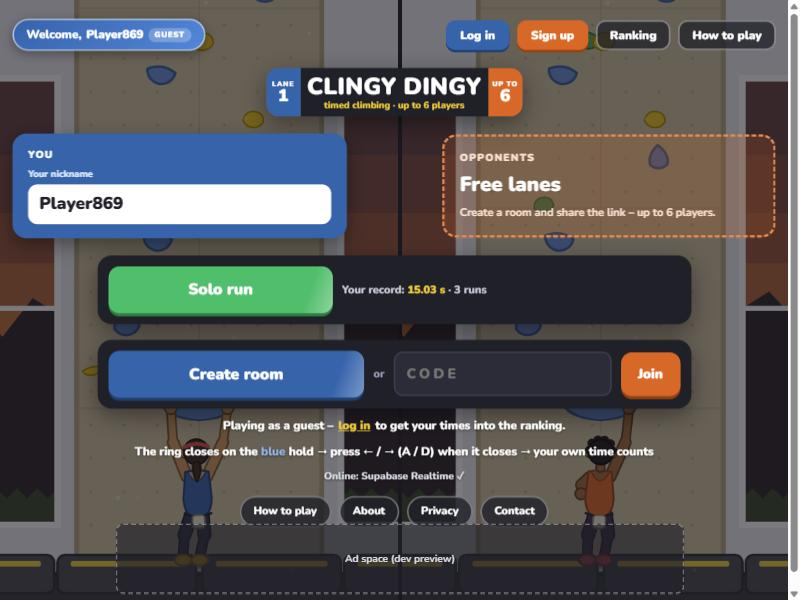
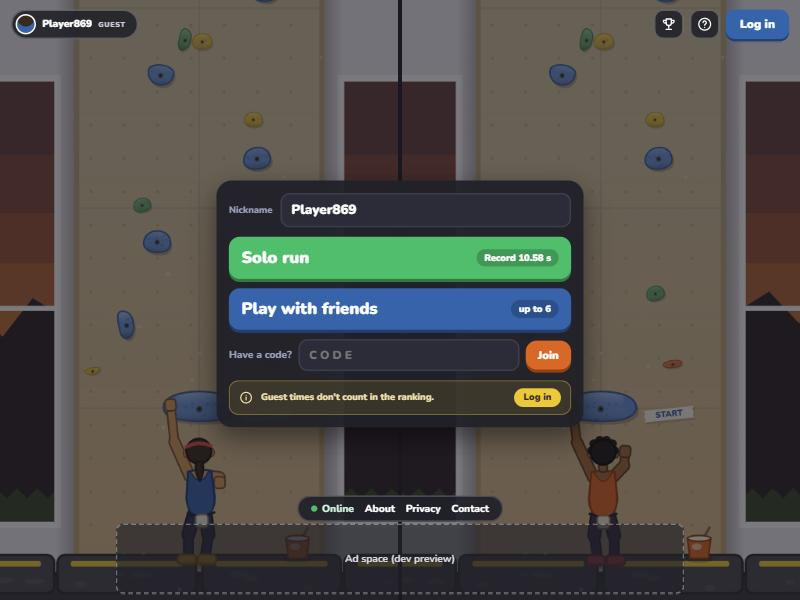
README: screenshots of the new design

diff --git a/README.md b/README.md
@@ -10,17 +10,21 @@
 
 Everything you see is drawn in code on a Canvas 2D (no sprites or image files): the wall, holds, climber, windows, stars and moon. The hall slowly turns from sunset into a starry night as you climb.
 
-| Menu | Start | Climbing at sunset |
+| Menu | Waiting room | Countdown |
 |---|---|---|
-| ![Menu](docs/screenshots/01-menu.jpg) | ![Start](docs/screenshots/02-start.jpg) | ![Climbing at sunset](docs/screenshots/03-climb-sunset.jpg) |
+| ![Menu](docs/screenshots/01-menu.jpg) | ![Waiting room](docs/screenshots/02-room.jpg) | ![Countdown](docs/screenshots/03-countdown.jpg) |
 
-| First stars | Dusk | Night and moon |
+| Sunset | First stars | Night |
 |---|---|---|
-| ![First stars](docs/screenshots/04-climb-first-stars.jpg) | ![Dusk](docs/screenshots/05-climb-dusk.jpg) | ![Night with a moon](docs/screenshots/06-climb-night-moon.jpg) |
+| ![Climbing at sunset](docs/screenshots/04-climb-sunset.jpg) | ![First stars](docs/screenshots/05-climb-first-stars.jpg) | ![Night and a moon](docs/screenshots/06-climb-night.jpg) |
 
-| Summit | Results | Phone |
+| Summit | Solo results | Phone |
 |---|---|---|
-| ![Summit](docs/screenshots/07-summit-flag.jpg) | ![Results](docs/screenshots/08-results.jpg) | <img src="docs/screenshots/09-phone.jpg" alt="Phone layout" width="160"> |
+| ![Summit](docs/screenshots/07-summit.jpg) | ![Solo results](docs/screenshots/08-solo-results.jpg) | <img src="docs/screenshots/11-phone.jpg" alt="Phone layout" width="160"> |
+
+| Duel: live race | Duel: results |
+|---|---|
+| ![Duel race](docs/screenshots/09-duel-race.jpg) | ![Duel results](docs/screenshots/10-duel-results.jpg) |
 
 ## How it plays
 
